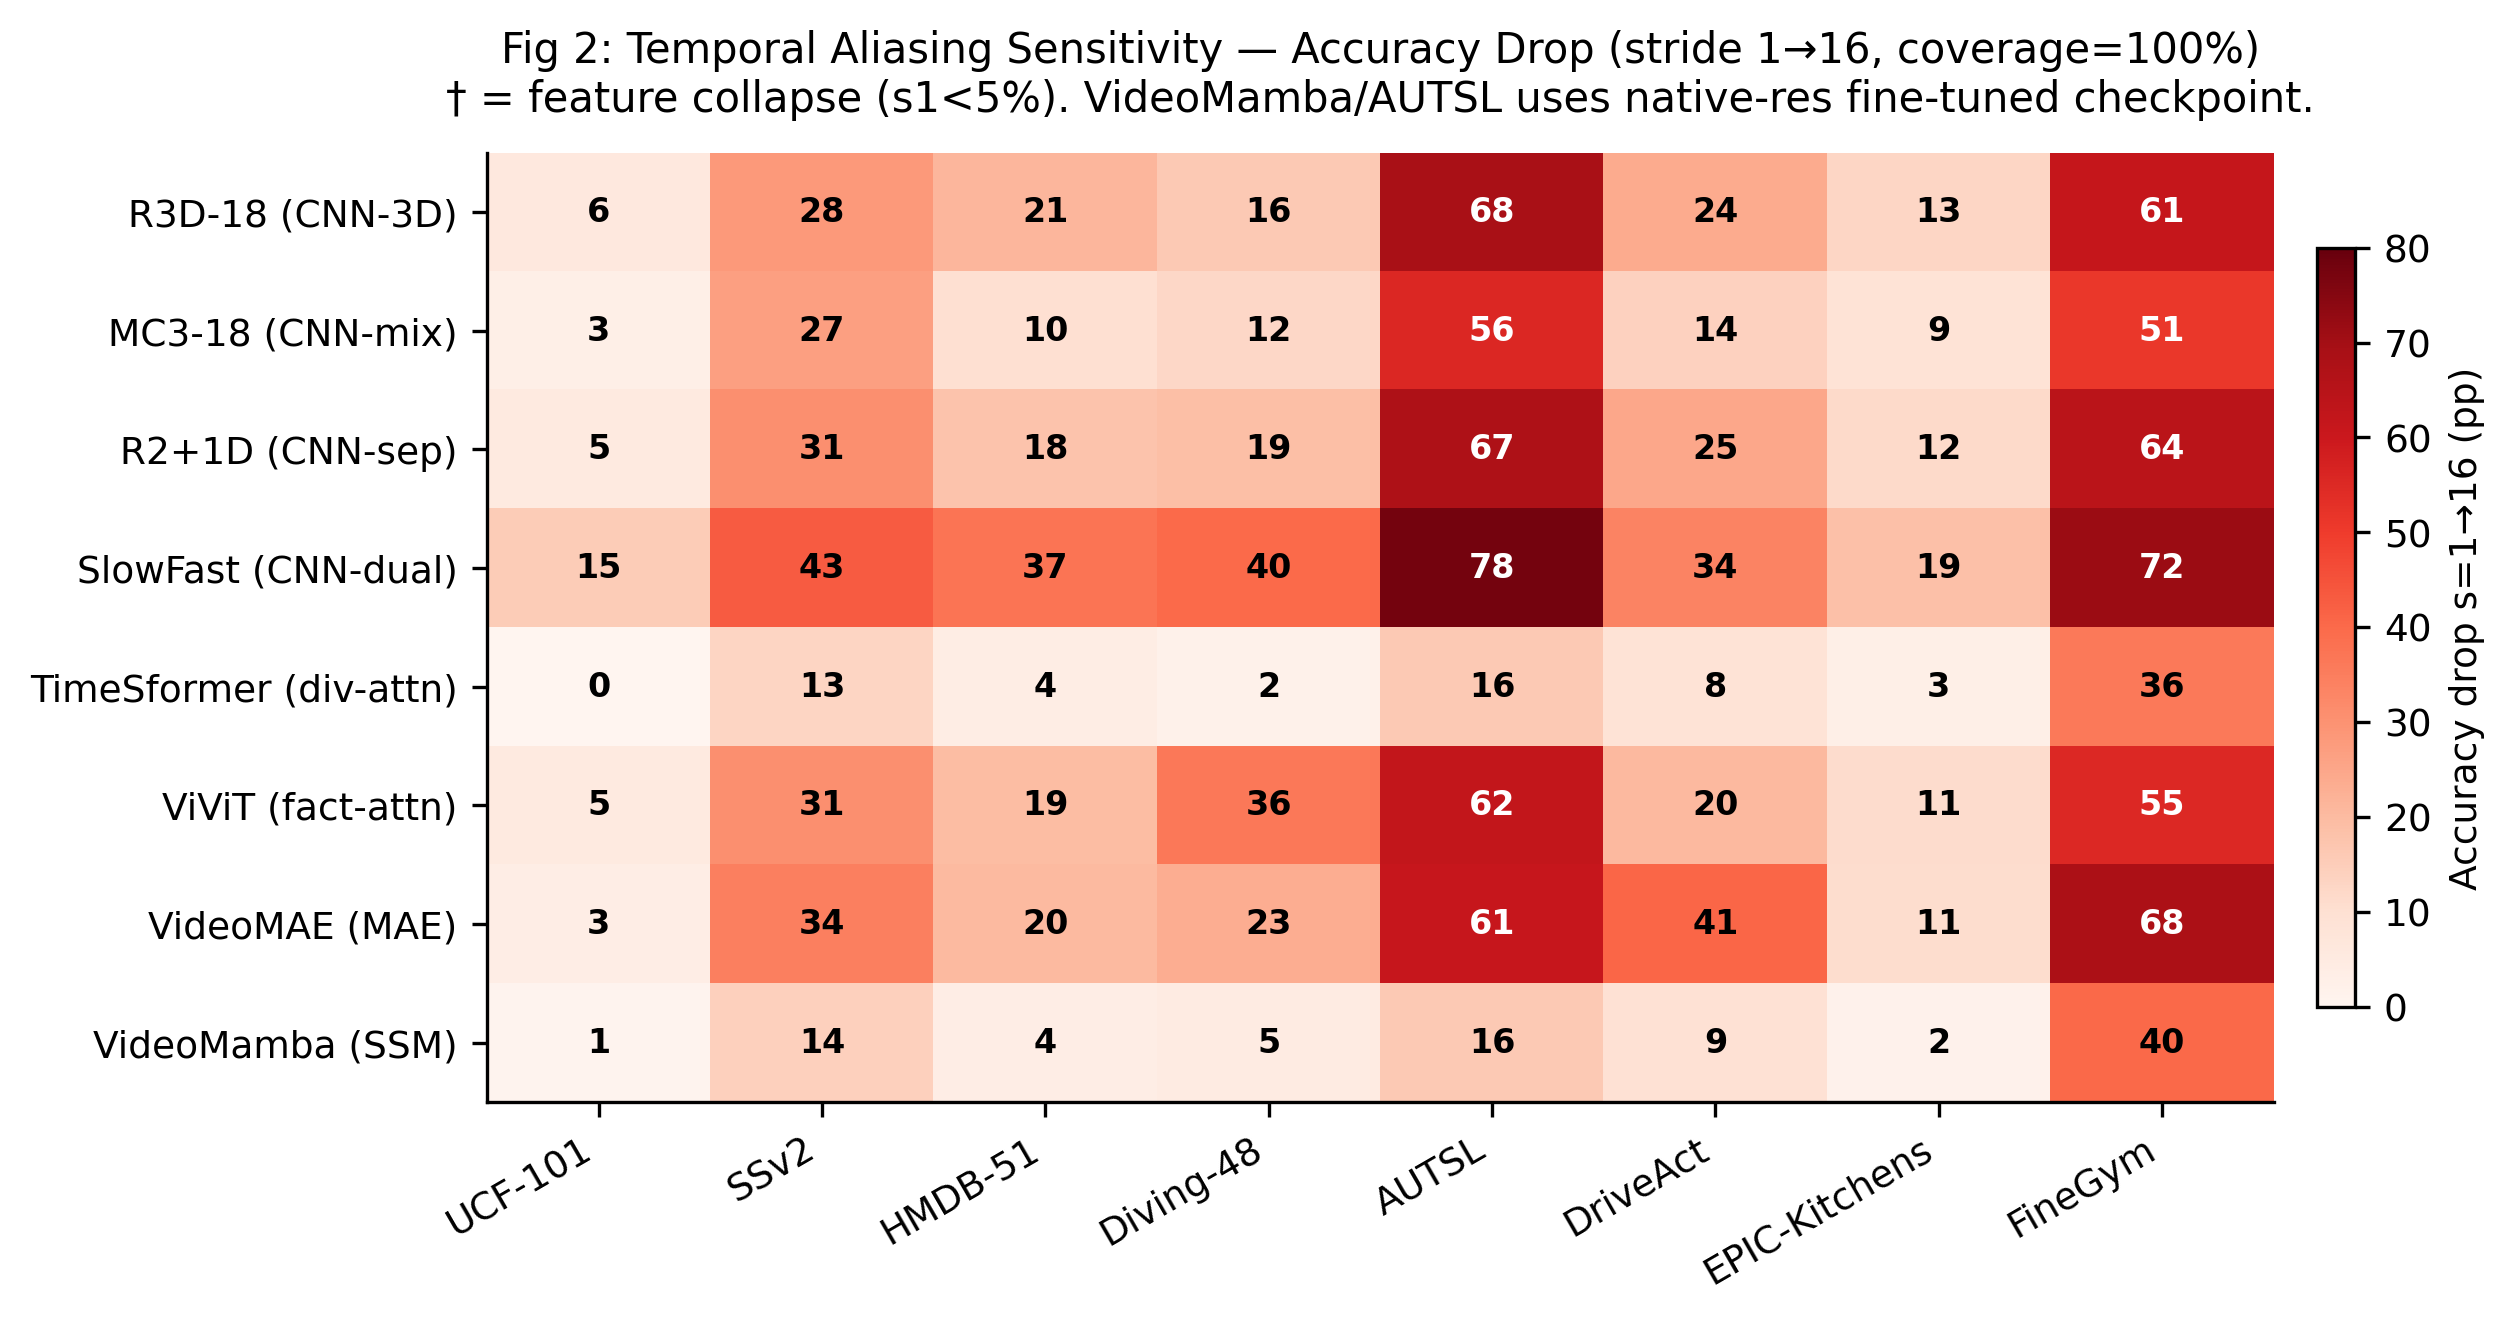
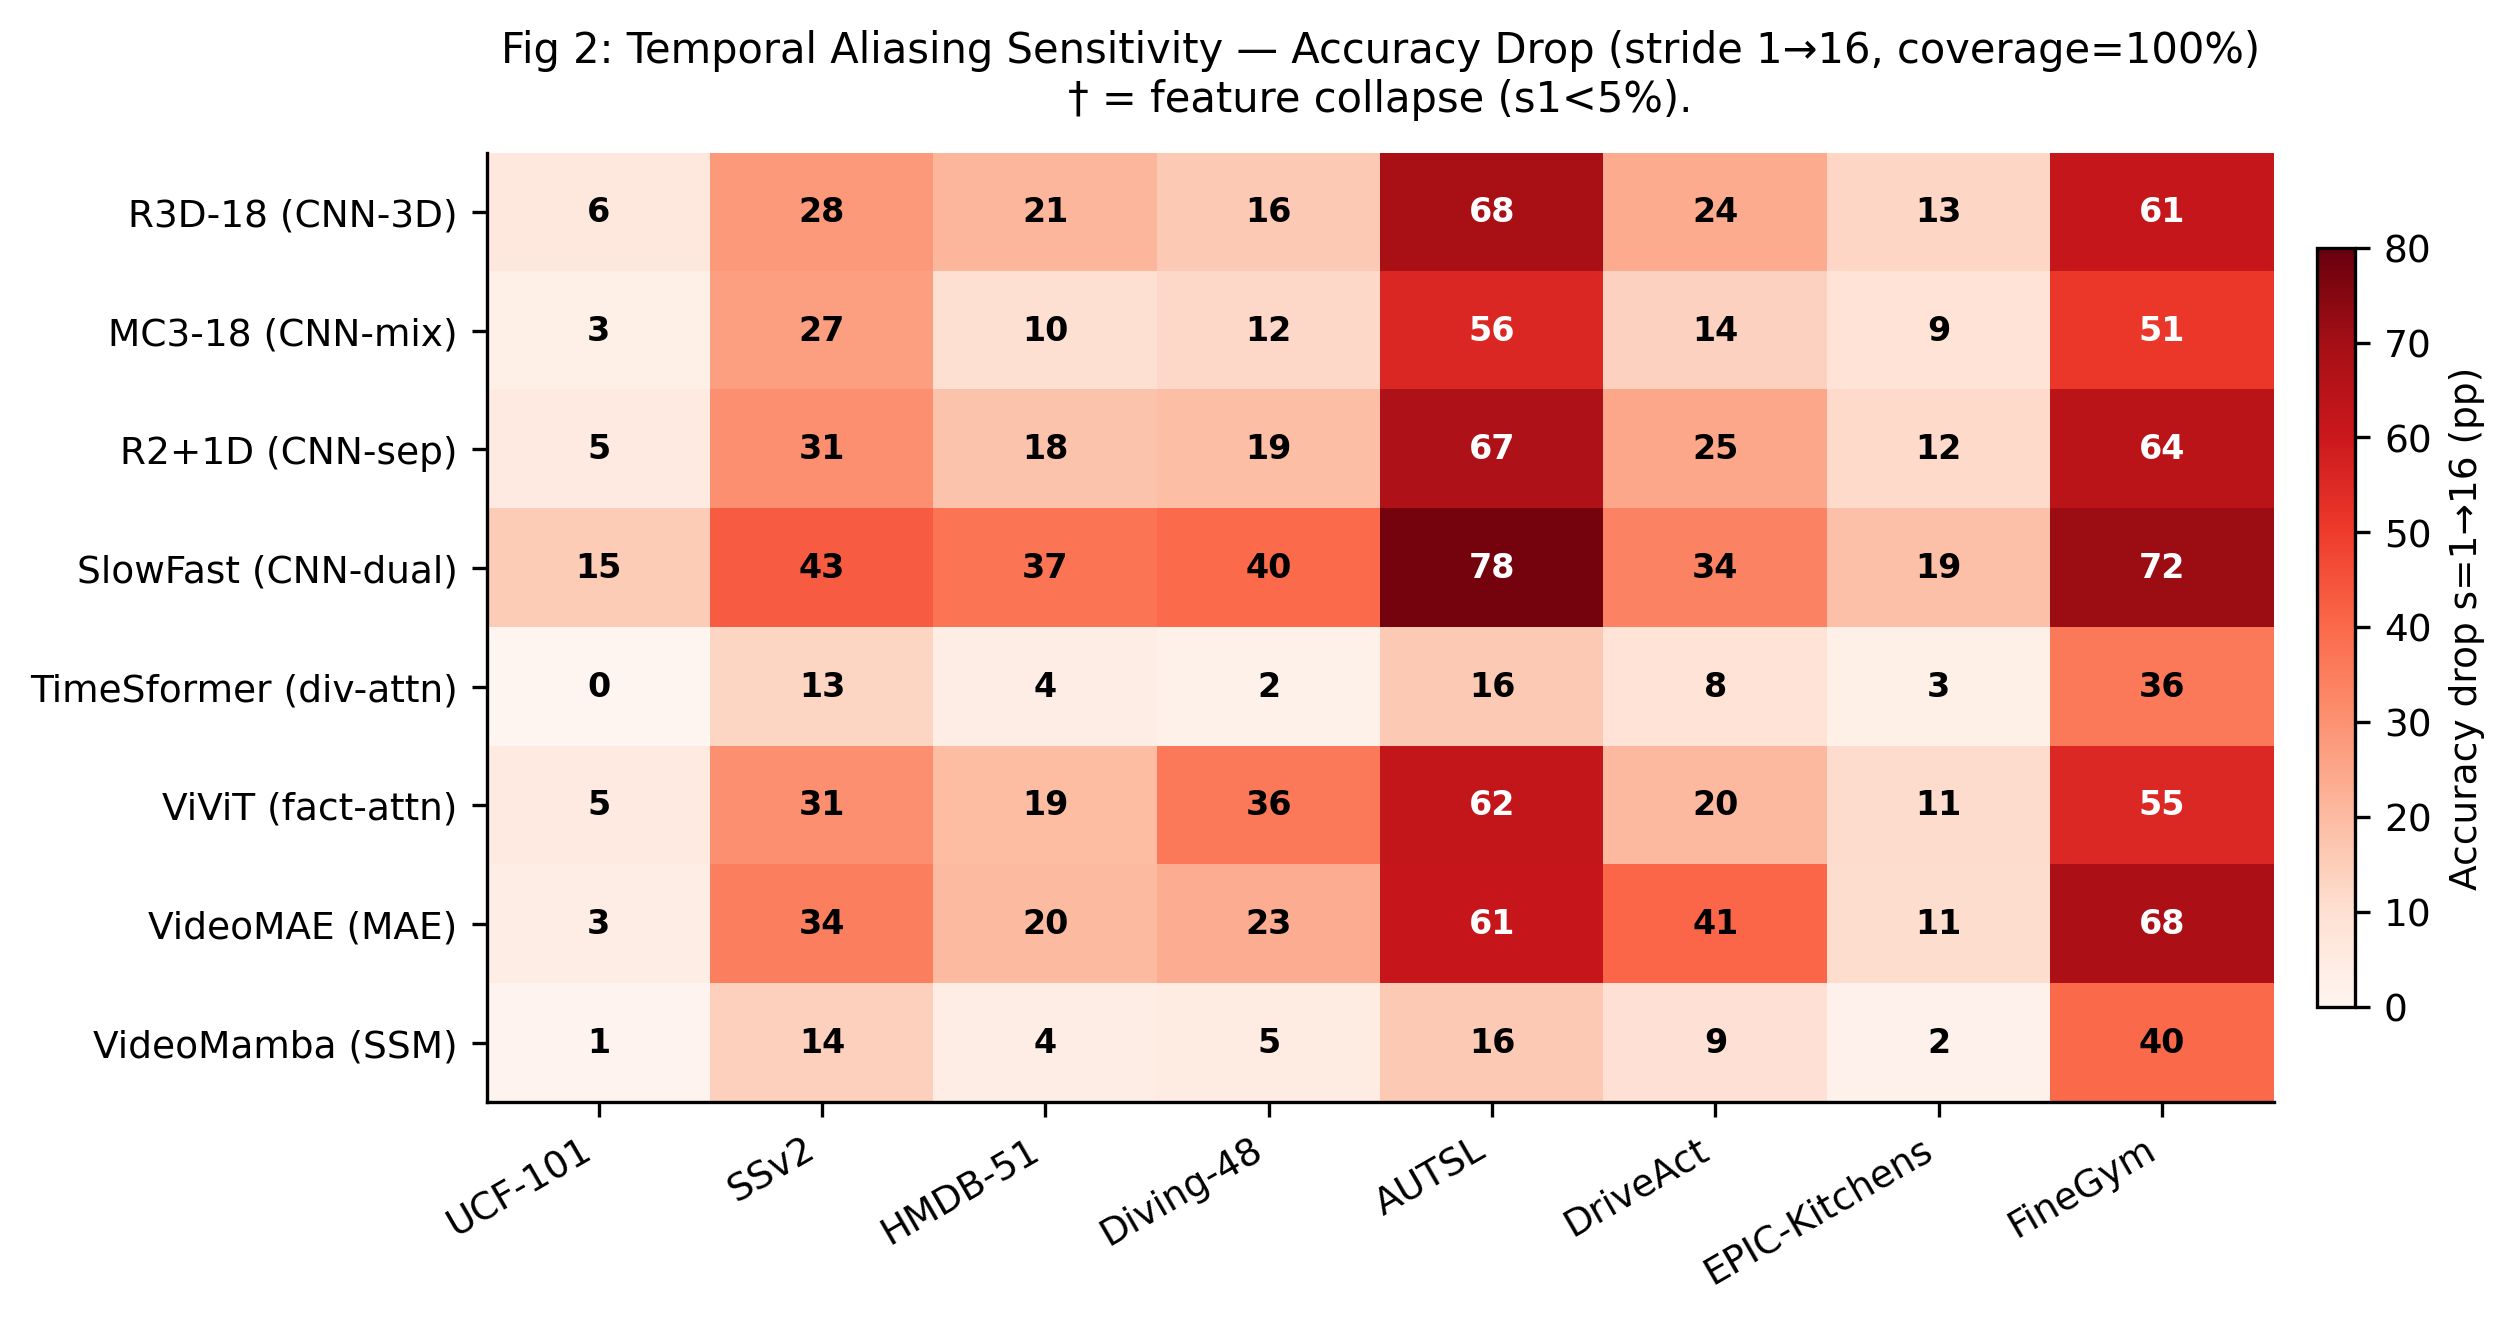
paper

Changed region(s): [[0.1862, 0.0621, 0.9308, 0.0931]]

diff --git a/paper/supplementary.tex b/paper/supplementary.tex
@@ -15,6 +15,7 @@
 
 \newcommand{\tabtight}{\setlength{\tabcolsep}{3.5pt}\renewcommand{\arraystretch}{1.12}}
 \newcommand{\TDS}{\textsc{TDS}}
+\setlength{\emergencystretch}{2em}
 
 \begin{document}
 \raggedbottom
@@ -33,7 +34,7 @@
 \renewcommand\thetable{S\arabic{table}}
 \setcounter{figure}{0} \setcounter{table}{0}
 
-This document provides supplementary material for the main paper. We include: (S1) full coverage$\times$stride heatmaps for all 8 models and 8 datasets; (S2) Levene variance inflation analysis; (S3) full ANOVA effect size tables including FineGym; (S4) action sensitivity taxonomy detail; (S5) entropy routing curves for all models; (S6) clip duration analysis; (S7) spectral correlation detail; (S8) implementation details (target-resolution fine-tuning, positional embedding interpolation); (S9) full multi-dataset spatial resolution results (all 8 datasets $\times$ 8 models); (S10) interactive dashboard and code availability; (S11) \TDS{} ranking robustness: leave-one-architecture-out, architecture-family ablation (CNN-only, Transformer-only, Transformer+SSM pools), and bootstrap confidence intervals; and (S12) a direct spectral test of the Nyquist framing across 8 datasets $\times$ 5 resolutions.
+This document provides supplementary material for the main paper. We include: (S1) full coverage$\times$stride heatmaps for all 8 models and 8 datasets; (S2) Levene variance inflation analysis; (S3) full ANOVA effect size tables including FineGym; (S4) action sensitivity taxonomy detail; (S5) entropy routing curves for all models; (S6) clip duration analysis; (S7) spectral correlation detail; (S8) implementation details (target-resolution fine-tuning, positional embedding interpolation); (S9) full multi-dataset spatial resolution results (all 8 datasets $\times$ 8 models); (S10) interactive dashboard and code availability; (S11) \TDS{} ranking robustness: leave-one-architecture-out, architecture-family ablation (CNN-only, Transformer-only, Transformer+SSM pools), and bootstrap confidence intervals; (S12) a direct spectral test of the Nyquist framing across 8 datasets $\times$ 5 resolutions; and (S13) additional robustness checks on optimization headroom, coverage--stride interaction, checkpoint comparability, and entropy-threshold calibration.
 
 % ── S1: Full heatmaps ─────────────────────────────────────────────────────────
 \section{Full Coverage$\times$Stride Heatmaps}
@@ -412,7 +413,7 @@ VideoMamba  & 224px & 29.2 & 29.1 & 36.1 & \textbf{36.6} & 36.2 & $-7.5$pp \\
 
 \begin{table}[!htbp]
 \centering
-\caption{Spatial robustness on \textbf{AUTSL} (sign language; no retraining from AUTSL-fine-tuned checkpoint). CNN degradation is most severe: R3D-18 collapses from 75.0\% to 2.0\% at 336px ($-73.0$pp). VideoMamba excluded: K400-pretrained checkpoint not fine-tuned on AUTSL; temporal aliasing results (Table~2) use the AUTSL-fine-tuned checkpoint.}
+\caption{Spatial robustness on \textbf{AUTSL} (sign language; no retraining during cross-resolution evaluation). CNN degradation is most severe: R3D-18 collapses from 75.0\% to 2.0\% at 336px ($-73.0$pp). VideoMamba is omitted from this cross-resolution table because the available checkpoint is not comparable for this specific spatial sweep.}
 \label{tab:sup_sp_autsl}
 \scriptsize\tabtight
 \begin{adjustbox}{max width=\textwidth}
@@ -428,7 +429,7 @@ SlowFast    & 224px & 22.5 & 32.6 & 70.0 & \textbf{79.2} & 69.0 & $-56.7$pp \\
 TimeSformer & 224px & 65.1 & 66.0 & 68.3 & \textbf{68.5} & 68.6 & $-3.5$pp \\
 ViViT       & 224px & 49.2 & 51.8 & 53.3 & \textbf{53.6} & 54.0 & $-4.5$pp \\
 VideoMAE    & 224px & 77.3 & 78.2 & 79.5 & \textbf{79.6} & 79.3 & $-2.2$pp \\
-VideoMamba  & 224px & \multicolumn{6}{c}{K400-pretrained checkpoint collapses on AUTSL (domain gap)} \\
+VideoMamba  & 224px & \multicolumn{6}{c}{Not included in this cross-resolution sweep} \\
 \bottomrule
 \end{tabular}
 \end{adjustbox}
@@ -683,6 +684,68 @@ UCF-101       & 0.387 & 24 &  5.45 \\
 \paragraph{Result.} Pooling across all 40 (dataset, resolution) points, $f_c$ is significantly \emph{negatively} correlated with stride-sensitivity (Spearman $\rho=-0.635$, permutation $p=1.0\times10^{-5}$, $n=40$)---the opposite sign from the naive Nyquist prediction that higher temporal-frequency content should require denser sampling (and thus show higher measured stride-sensitivity). FineGym integrates cleanly into this pattern: it has the highest mean stride-sensitivity (46.30pp) but a moderate whole-frame cutoff frequency ($f_c=0.188$ cycles/frame), close to DriveAct and Diving-48 rather than UCF-101/HMDB-51.
 
 \paragraph{Interpretation.} This is the same qualitative inversion already reported for FineGym in the main paper ($r=-0.475$), now shown across all 8 datasets with real statistical power rather than being a single-dataset anomaly. UCF-101 and HMDB-51---appearance- and sports-driven domains with large whole-body and camera motion---have the highest flow-derived cutoff frequencies but among the lowest stride-sensitivity, because the action remains identifiable from almost any sampled frame. AUTSL and FineGym show the opposite behavior: their discriminative evidence is localized in handshape changes or brief gymnastics phase events, which are diluted by a whole-frame flow aggregate. We conclude that whole-frame optical-flow frequency content is a systematically \emph{anti-correlated}, not merely noisy, proxy for the temporal demand that matters to a classifier. A class- or region-localized motion signal (e.g., hands in sign language or salient joints in gymnastics) is a natural direction for a more faithful spectral test.
+
+% ── S13: Additional robustness checks ───────────────────────────────────────
+\section{Additional Robustness Checks}
+\label{sec:sup_extra_checks}
+
+\paragraph{Observational architecture interpretation.}
+The architecture comparison in the main paper is intentionally phrased as an empirical association rather than a controlled causal ablation. Attention layout, state-space recurrence, tokenization, pretraining objective, parameter count, and optimization all covary across the evaluated architectures. A definitive mechanism test would require holding the backbone fixed while swapping only temporal aggregation modules. Our contribution is the large controlled sampling sweep showing that, within this architecture pool, models with global divided attention or recurrent state integration are consistently less sensitive to temporal subsampling than CNNs and factorized-attention Transformers.
+
+\paragraph{Dense-accuracy headroom does not explain \TDS{}.}
+Because several datasets are evaluated on balanced subsets or fixed 20-clips-per-class protocols, absolute gaps to external leaderboard numbers are not directly comparable. The relevant risk is whether under-optimized model--dataset pairs inflate \TDS{} simply because they have more room to lose accuracy. We therefore compute an internal dense-accuracy headroom: for each dataset, the gap between each model's stride=1 accuracy and the best stride=1 accuracy achieved by any model in our pool. If under-optimization drove aliasing loss, this headroom should correlate positively with stride=1$\to$16 drop. It does not: across the 64 model--dataset pairs, Spearman $\rho=-0.22$ ($p=0.079$); at the dataset level, mean headroom vs.\ \TDS{} gives $\rho=0.36$ ($p=0.385$).
+
+\begin{table}[!htbp]
+\centering
+\caption{Dense-accuracy headroom check. Headroom is the mean gap from each model's stride=1 accuracy to the best stride=1 accuracy achieved by any model on the same dataset. It is not significantly correlated with \TDS{}, suggesting that temporal sensitivity is not an artifact of under-optimized dense accuracy.}
+\label{tab:headroom_check}
+\scriptsize\tabtight
+\begin{tabular}{l r r r r}
+\toprule
+Dataset & Mean stride=1 & Best stride=1 & Mean headroom & \TDS{} \\
+\midrule
+FineGym       & 73.8 & 79.9 &  6.1 & 55.9 \\
+AUTSL         & 72.9 & 82.3 &  9.3 & 53.0 \\
+SSv2          & 42.5 & 52.4 &  9.9 & 27.6 \\
+DriveAct      & 67.4 & 73.9 &  6.5 & 21.9 \\
+Diving-48     & 40.3 & 53.0 & 12.7 & 19.2 \\
+HMDB-51       & 78.2 & 84.0 &  5.8 & 16.6 \\
+EPIC-Kitchens & 34.9 & 39.4 &  4.5 &  9.7 \\
+UCF-101       & 89.0 & 95.5 &  6.5 &  4.9 \\
+\bottomrule
+\end{tabular}
+\end{table}
+
+\paragraph{Coverage--stride interaction.}
+Figures in S1 visualize the complete coverage$\times$stride grids. To test additivity, we average accuracy over architectures for representative high-\TDS{} and low-\TDS{} datasets, then decompose the 5$\times$5 mean grid into row/column effects plus an interaction residual. FineGym has a meaningful interaction component (15.0\% of grid variance; RMSE 8.3pp): low coverage is poor regardless of stride, while high coverage exposes the stride cliff. UCF-101 is closer to additive (4.0\%; RMSE 1.7pp).
+
+\begin{table}[!htbp]
+\centering
+\caption{Mean accuracy (\%) over architectures for a high-\TDS{} dataset (FineGym) and a low-\TDS{} dataset (UCF-101). Rows are coverage; columns are stride.}
+\label{tab:coverage_stride_examples}
+\scriptsize\tabtight
+\begin{adjustbox}{max width=\textwidth}
+\begin{tabular}{l rrrrr @{\hskip18pt} l rrrrr}
+\toprule
+\multicolumn{6}{c}{FineGym} & \multicolumn{6}{c}{UCF-101} \\
+\cmidrule(lr){1-6}\cmidrule(lr){7-12}
+Coverage & s1 & s2 & s4 & s8 & s16 & Coverage & s1 & s2 & s4 & s8 & s16 \\
+\midrule
+10\%  &  8.0 &  7.2 &  6.4 &  5.8 &  5.8 & 10\%  & 74.5 & 73.2 & 69.5 & 64.2 & 57.7 \\
+25\%  & 16.9 & 15.6 & 12.4 &  8.3 &  6.4 & 25\%  & 81.7 & 81.6 & 80.1 & 75.0 & 67.8 \\
+50\%  & 42.9 & 40.7 & 28.7 & 17.1 &  9.3 & 50\%  & 86.6 & 86.6 & 85.7 & 82.9 & 76.6 \\
+75\%  & 63.4 & 59.6 & 42.3 & 25.1 & 13.1 & 75\%  & 88.4 & 88.7 & 88.5 & 86.8 & 81.4 \\
+100\% & 73.8 & 68.0 & 49.8 & 29.8 & 15.7 & 100\% & 89.0 & 89.0 & 89.0 & 88.1 & 84.1 \\
+\bottomrule
+\end{tabular}
+\end{adjustbox}
+\end{table}
+
+\paragraph{VideoMamba on AUTSL.}
+For temporal aliasing, the VideoMamba AUTSL result uses the same coverage$\times$stride protocol as the other temporal results. For the separate spatial cross-resolution table in S9, we omit VideoMamba on AUTSL because the available checkpoint set is not comparable for that specific spatial sweep. This does not drive the VideoMamba robustness conclusion: its mean stride drop is 11.4pp over all 8 datasets and 10.7pp if AUTSL is excluded.
+
+\paragraph{Entropy-threshold calibration.}
+The entropy router is not trained; it reuses two fixed inference outputs (4-frame cheap and 16-frame dense) and sweeps a scalar confidence threshold to trace a validation-set Pareto frontier. Thus the reported threshold should not be interpreted as calibrated on an independent test split. The threshold-free baselines (fixed 4f, fixed 8f, fixed 16f) and the oracle bound are included to expose this dependence. In deployment, the threshold should be selected on a held-out calibration split or with nested validation; the current result is best read as evidence that confidence contains useful routing signal, not as a fully validated routing policy.
 
 \bibliographystyle{splncs04}
 \bibliography{main}

diff --git a/paper/main.tex b/paper/main.tex
@@ -55,7 +55,7 @@
 
 % =========================================================
 \begin{abstract}
-Temporal resolution in video action recognition is usually treated as a fixed hyperparameter rather than a sampling constraint. We present a large-scale study of spatiotemporal aliasing across 8 architectures and 8 datasets (8,000+ evaluation configurations). Aliasing is strongly associated with \emph{attention mechanism type}: VideoMamba and TimeSformer alias 3--5$\times$ less than CNNs and ViViT, despite ViViT being a Transformer. We introduce the \textbf{Temporal Demand Score (\TDS{})}, an architecture-averaged accuracy drop under temporal subsampling. FineGym (55.9pp) rivals sign language (AUTSL, 53.0pp), establishing fine-grained sport as a high-aliasing regime. Cross-resolution evaluation shows CNNs degrade up to 73pp off-native, while Transformers stay within $\pm$8pp on 7 of 8 datasets; target-resolution fine-tuning recovers up to 39pp for CNNs. Measured latency identifies VideoMAE as the most efficient Transformer (1.6--2.8ms) and VideoMamba as 4--8$\times$ slower (8--15ms). Finally, entropy routing reduces average inference cost by 52\% with no accuracy penalty, outperforming FrameExit~\cite{ghodrati2021frameexit} by $+4.2$pp.
+Temporal resolution in video action recognition is usually treated as a fixed hyperparameter rather than a sampling constraint. We present a large-scale study of spatiotemporal aliasing across 8 architectures and 8 datasets (8,000+ evaluation configurations). Aliasing is strongly associated with \emph{temporal aggregation design}: VideoMamba and TimeSformer alias 3--5$\times$ less than CNNs and ViViT, despite ViViT being a Transformer. We introduce the \textbf{Temporal Demand Score (\TDS{})}, an architecture-averaged accuracy drop under temporal subsampling. FineGym (55.9pp) rivals sign language (AUTSL, 53.0pp), establishing fine-grained sport as a high-aliasing regime. Cross-resolution evaluation shows CNNs degrade up to 73pp off-native, while Transformers stay within $\pm$8pp on 7 of 8 datasets; target-resolution fine-tuning recovers up to 39pp for CNNs. Measured latency identifies VideoMAE as the most efficient Transformer (1.6--2.8ms) and VideoMamba as 4--8$\times$ slower (8--15ms). Finally, entropy routing reduces average inference cost by 52\% with no accuracy penalty, outperforming FrameExit~\cite{ghodrati2021frameexit} by $+4.2$pp.
 \keywords{Temporal aliasing \and Video recognition \and Routing}
 \end{abstract}
 
@@ -106,7 +106,7 @@ We conduct a systematic cross-architecture study of spatiotemporal aliasing:
 \item \textbf{Temporal Demand Score (\TDS{})}: an architecture-averaged dataset
 metric that consistently ranks 8 datasets by aliasing sensitivity, validated by leave-one-architecture-out analysis, architecture-family ablation (CNN-only, Transformer-only), and bootstrap confidence intervals (Sec.~\ref{sec:results_tds}; supplementary material). FineGym (55.9pp) rivals sign language (AUTSL, 53.0pp) as the highest-demand domain.
 \item \textbf{Cross-architecture aliasing characterization}: 8,000+ evaluation
-configurations reveal that \emph{attention mechanism type}---not architecture family---is the strongest correlate of aliasing behavior, with VideoMamba and TimeSformer aliasing 3--5$\times$ less than CNNs and ViViT (Sec.~\ref{sec:results_temporal}).
+configurations show that temporal aggregation design is a strong empirical correlate of aliasing behavior within our architecture pool, with VideoMamba and TimeSformer aliasing 3--5$\times$ less than CNNs and ViViT (Sec.~\ref{sec:results_temporal}).
 \item \textbf{Target-resolution fine-tuning}: Fine-tuning each model at the deployment
 resolution closes the cross-resolution gap by up to 39pp for CNNs while Transformers---already resolution-robust---require no retraining (Sec.~\ref{sec:results_spatial}).
 \item \textbf{Measured inference latency}: GPU latency characterization
@@ -267,7 +267,7 @@ EPIC-Kitchens &  89 & $-0.002$& $\times$ & Camera motion confounds \\
 \label{sec:results_temporal}
 
 \paragraph{Attention type correlates with aliasing.}
-Table~\ref{tab:e1_full} shows stride=1 accuracy and stride=16 drop. The central finding is that aliasing tracks \emph{attention mechanism type} more closely than architecture family. The robust group is TimeSformer (divided attention, 10.3pp mean drop) and VideoMamba (SSM, 11.4pp). Both preserve global temporal context under aggressive subsampling: TimeSformer via full-clip cross-frame attention, and VideoMamba via recurrent state accumulation.
+Table~\ref{tab:e1_full} shows stride=1 accuracy and stride=16 drop. The central observational finding is that aliasing tracks temporal aggregation design more closely than broad architecture family in this pool. The robust group is TimeSformer (divided attention, 10.3pp mean drop) and VideoMamba (SSM, 11.4pp). Both preserve global temporal context under aggressive subsampling: TimeSformer via full-clip cross-frame attention, and VideoMamba via recurrent state accumulation.
 
 VideoMamba's robustness is markedly \emph{bimodal}. It drops only 4.0pp on average over UCF-101, HMDB-51, EPIC-Kitchens, Diving-48, and DriveAct, which would make it the most robust model by a large margin if these were the only domains considered. But on the three highest-\TDS{} domains, VideoMamba suffers substantially: FineGym (40.8pp), AUTSL (16.0pp), and SSv2 (14.1pp). FineGym most clearly inverts the SSM-vs-Transformer ranking: TimeSformer drops 36.1pp vs.\ VideoMamba's 40.8pp, a 4.7pp gap favoring divided attention. The same direction holds on SSv2, while AUTSL is tied. We hypothesize that VideoMamba's running state smooths over high-frequency phase transitions, whereas TimeSformer can selectively attend to the most discriminative frames.
 
@@ -313,7 +313,7 @@ Figure~\ref{fig:heatmap} shows the full coverage$\times$stride sensitivity matri
 \begin{figure*}[t]
   \centering
   \includegraphics[width=\textwidth]{images/main_fig2_aliasing_heatmap.pdf}
-  \caption{Cross-architecture sensitivity heatmap: accuracy (\%) averaged over 8 datasets across the coverage$\times$stride grid. Models sorted left-to-right by mean aliasing robustness. VideoMamba and TimeSformer maintain a flat high-accuracy plateau; SlowFast and ViViT show dramatic stride-driven collapse (red gradient). VideoMamba/AUTSL uses the AUTSL-fine-tuned checkpoint, consistent with all other models' AUTSL checkpoints.}
+  \caption{Cross-architecture sensitivity heatmap: accuracy (\%) averaged over 8 datasets across the coverage$\times$stride grid. Models sorted left-to-right by mean aliasing robustness. VideoMamba and TimeSformer maintain a flat high-accuracy plateau; SlowFast and ViViT show dramatic stride-driven collapse (red gradient).}
   \label{fig:heatmap}
 \end{figure*}
 
@@ -465,7 +465,7 @@ VideoMamba  & 8.06 & 8.15 & 8.18 & 10.03 & 15.44 \\
 \subsection{Entropy-Based Adaptive Routing}
 \label{sec:results_routing}
 
-Table~\ref{tab:routing} compares entropy routing at average frame budget $\leq8$ (full curves in the supplementary material). AdaFocus~\cite{wang2021adafocus} and AR-Net~\cite{meng2020arnet} use ResNet-50 and are informational. The controlled comparison is FrameExit~\cite{ghodrati2021frameexit}, also on TimeSformer: entropy routing reaches 42.5\% vs.\ 38.4\% ($+4.2$pp) with fewer frames (7.7 vs.\ 9.9).
+Table~\ref{tab:routing} compares entropy routing at average frame budget $\leq8$ (full curves in the supplementary material). Thresholds are swept on the validation split to trace the achievable Pareto frontier; we treat the router as a deployment illustration rather than a separately trained method. AdaFocus~\cite{wang2021adafocus} and AR-Net~\cite{meng2020arnet} use ResNet-50 and are informational. The controlled comparison is FrameExit~\cite{ghodrati2021frameexit}, also on TimeSformer: entropy routing reaches 42.5\% vs.\ 38.4\% ($+4.2$pp) with fewer frames (7.7 vs.\ 9.9).
 
 \begin{figure*}[t]
   \centering
@@ -504,7 +504,7 @@ Across model-dataset pairs, 77\% of videos route to cheap 4-frame inference on a
 \section{Discussion}
 \label{sec:discussion}
 
-\paragraph{Why is attention type associated with aliasing robustness?}
+\paragraph{Why might temporal aggregation design be associated with aliasing robustness?}
 \emph{Divided attention} (TimeSformer) computes temporal context globally at each block: every frame attends to all others, selectively weighting discriminative instants and reducing the impact of any single missing frame. \emph{Factorized attention} (ViViT) extracts spatial features frame-independently before temporal aggregation; when frames are dropped, the temporal module receives impoverished per-frame representations it cannot recover from. \emph{SSM recurrence} (VideoMamba) integrates temporal context as a running state: on slowly varying domains, missing frames perturb the state boundedly, but high-frequency key-frame evidence can be smoothed away.
 
 Full characterization across all 8 datasets reveals VideoMamba's \textbf{bimodal} aliasing profile: robust on 5 datasets (avg 4.0pp), but substantially aliased on FineGym (40.8pp), AUTSL (16.0pp), and SSv2 (14.1pp). These domains expose three SSM failure modes: bandwidth limits for fine-grained phase changes, ordering errors under subsampling, and loss of spatial-temporal precision.
@@ -523,13 +523,13 @@ On the temporal axis, a symmetric convergence occurs: temporally robust architec
 From \TDS{} and measured latency, we derive deployment rules. \textbf{High-\TDS{} domains} (FineGym, AUTSL; $\TDS{}>40$pp) require stride$\leq$2; \textbf{moderate-\TDS{} domains} (SSv2, DriveAct) tolerate stride$\leq$4; and \textbf{low-\TDS{} domains} (UCF-101, EPIC-Kitchens) tolerate stride up to 16. Transformers usually work across 48--224px without retraining, while CNNs should be fine-tuned at the target resolution. ViViT's fragility shows that ``Transformer'' does not imply temporal robustness, and VideoMamba's 4--8$\times$ CUDA latency gap shows that theoretical SSM efficiency does not automatically translate to best GPU accuracy-per-ms.
 
 \paragraph{Limitations.}
-Our 8-architecture pool covers major temporal-sampling families but not newer hybrid models such as Video Swin, MViT, or InternVideo-style systems. The Nyquist--Shannon framing is conceptual: our direct whole-frame-flow test (Sec.~\ref{sec:results_tds}; supplementary material) finds an inverse, not positive, relationship with stride-sensitivity, so we characterize aliasing through controlled accuracy degradation rather than claiming literal spectral validation. Flow and clip-duration analyses remain exploratory, and routing uses a global 4f/16f threshold; per-dataset calibration could close part of the 4.8pp oracle gap.
+Our 8-architecture pool covers major temporal-sampling families but not newer hybrid models such as Video Swin, MViT, or InternVideo-style systems. The architecture analysis is observational: temporal aggregation design covaries with tokenization, pretraining objective, capacity, and optimization recipe, so we identify robust empirical associations rather than claim a controlled causal mechanism. The Nyquist--Shannon framing is conceptual: our direct whole-frame-flow test (Sec.~\ref{sec:results_tds}; supplementary material) finds an inverse, not positive, relationship with stride-sensitivity, so we characterize aliasing through controlled accuracy degradation rather than claiming literal spectral validation. Flow and clip-duration analyses remain exploratory. Routing thresholds are swept on validation data to report Pareto frontiers, not calibrated on a separate held-out split; nested calibration is needed before treating the threshold as a deployable policy.
 
 % =========================================================
 \section{Conclusion}
 \label{sec:conclusion}
 
-We presented a large-scale cross-architecture study of spatiotemporal aliasing in video action recognition. Across 8 architectures, 8 datasets, and 8,000+ configurations, aliasing tracks attention mechanism type more than broad model family, with the ViViT anomaly demonstrating that Transformer $\neq$ temporally robust. The \TDS{} metric identifies FineGym and AUTSL as co-equal high-demand domains, establishing fine-grained sport as a high-aliasing regime. VideoMamba is robust but bimodal and slow on GPU; target-resolution fine-tuning closes the CNN resolution gap by up to 39pp; and entropy routing cuts inference cost by 52\% without accuracy loss. An anonymized dashboard/code package accompanies the submission, with public release planned after review. Together, these results give practical rules for architecture, resolution, and stride selection under sampling constraints.
+We presented a large-scale cross-architecture study of spatiotemporal aliasing in video action recognition. Across 8 architectures, 8 datasets, and 8,000+ configurations, aliasing tracks temporal aggregation design more than broad model family, with ViViT showing that Transformers are not automatically temporally robust. The \TDS{} metric identifies FineGym and AUTSL as co-equal high-demand domains, establishing fine-grained sport as a high-aliasing regime. VideoMamba is robust but bimodal and slow on GPU; target-resolution fine-tuning closes the CNN resolution gap by up to 39pp; and entropy routing cuts inference cost by 52\% without accuracy loss on the validation Pareto frontier. The submission includes an anonymized dashboard/code package, with public release planned after review.
 
 \bibliographystyle{splncs04}
 \bibliography{main}

diff --git a/scripts/accv2026/generate_paper_figures.py b/scripts/accv2026/generate_paper_figures.py
@@ -215,8 +215,8 @@ for i in range(len(MODELS)):
         else:
             ax.text(j, i, "†", ha="center", va="center", fontsize=9, color="gray")
 
-ax.set_title("Fig 2: Temporal Aliasing Sensitivity — Accuracy Drop (stride 1→16, coverage=100%)\n"
-             "† = feature collapse (s1<5%). VideoMamba/AUTSL uses native-res fine-tuned checkpoint.",
+    ax.set_title("Fig 2: Temporal Aliasing Sensitivity — Accuracy Drop (stride 1→16, coverage=100%)\n"
+             "† = feature collapse (s1<5%).",
              fontsize=10, pad=10)
 
 # Add family brackets
@@ -422,7 +422,7 @@ for model in MODELS:
         ax.set_yticklabels([f"{c}%" for c in COVERAGES], fontsize=7)
         ax.set_title(DATASET_LABELS.get(ds, ds), fontsize=8)
         if is_collapse:
-            ax.text(2, 2, "COLLAPSE\n(domain gap)", ha="center", va="center",
+            ax.text(2, 2, "NOT\nCOMPARABLE", ha="center", va="center",
                     fontsize=8, color="red", fontweight="bold")
         else:
             for ci, cov in enumerate(COVERAGES):